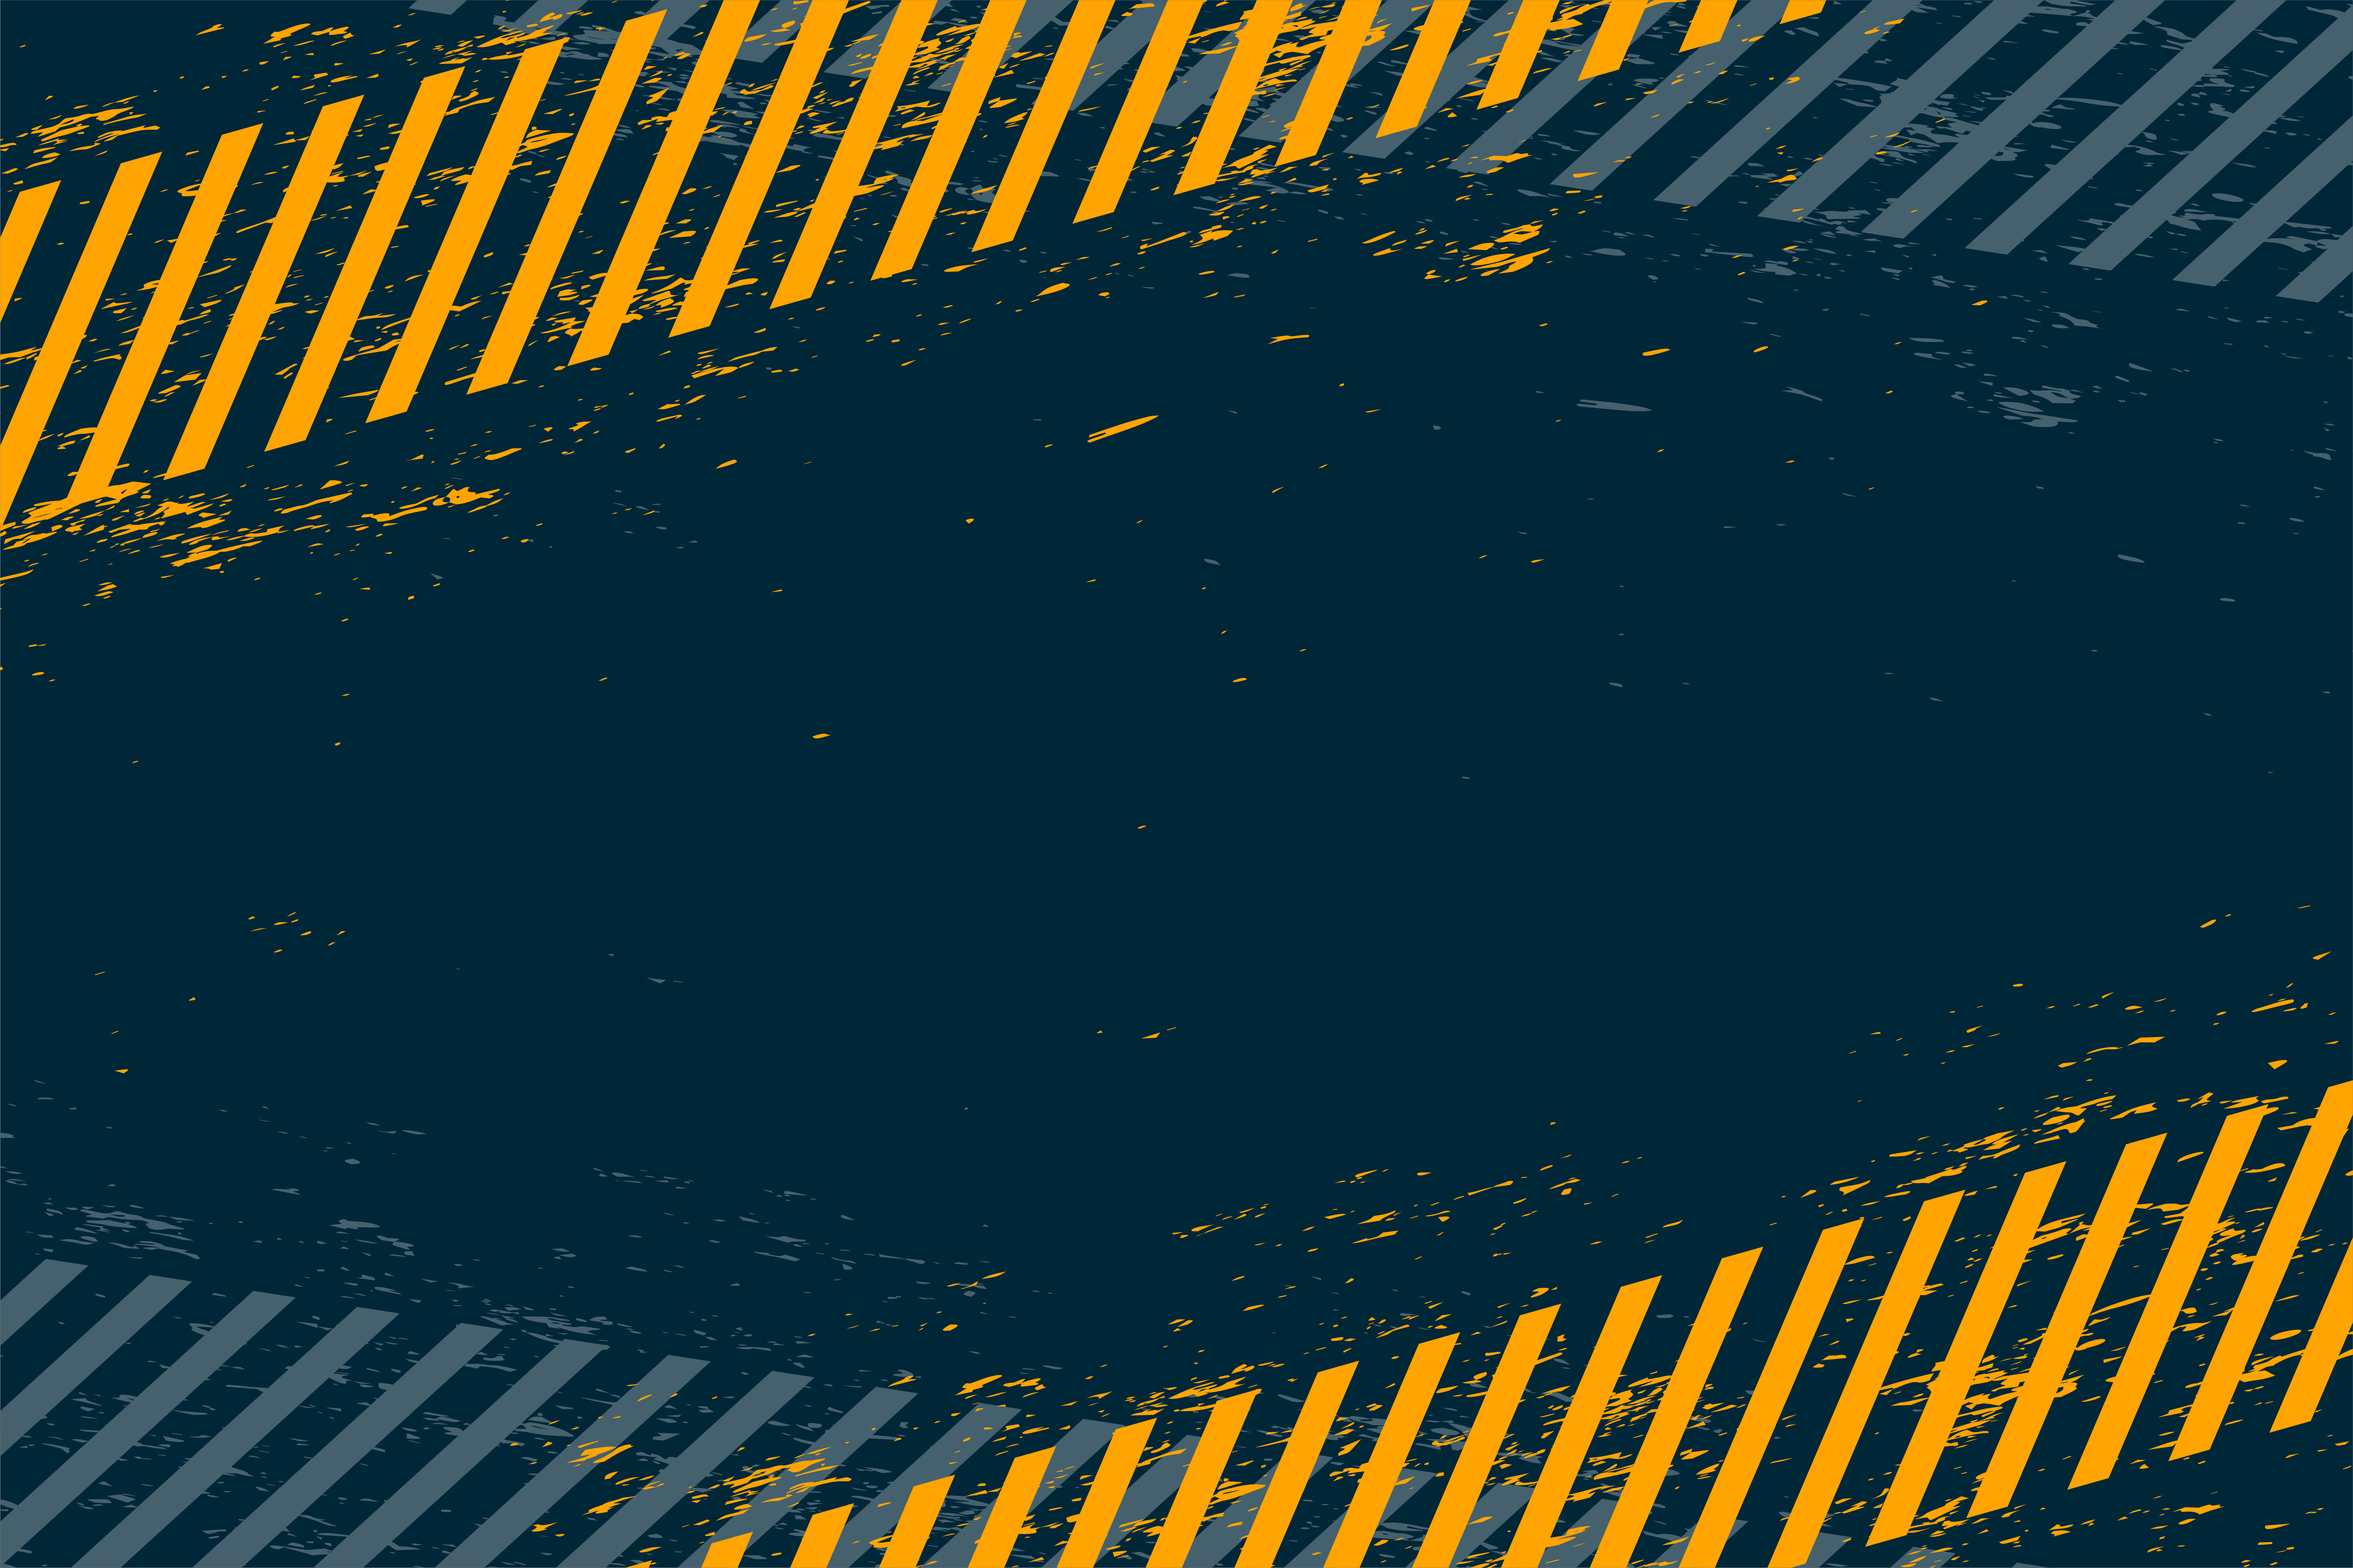
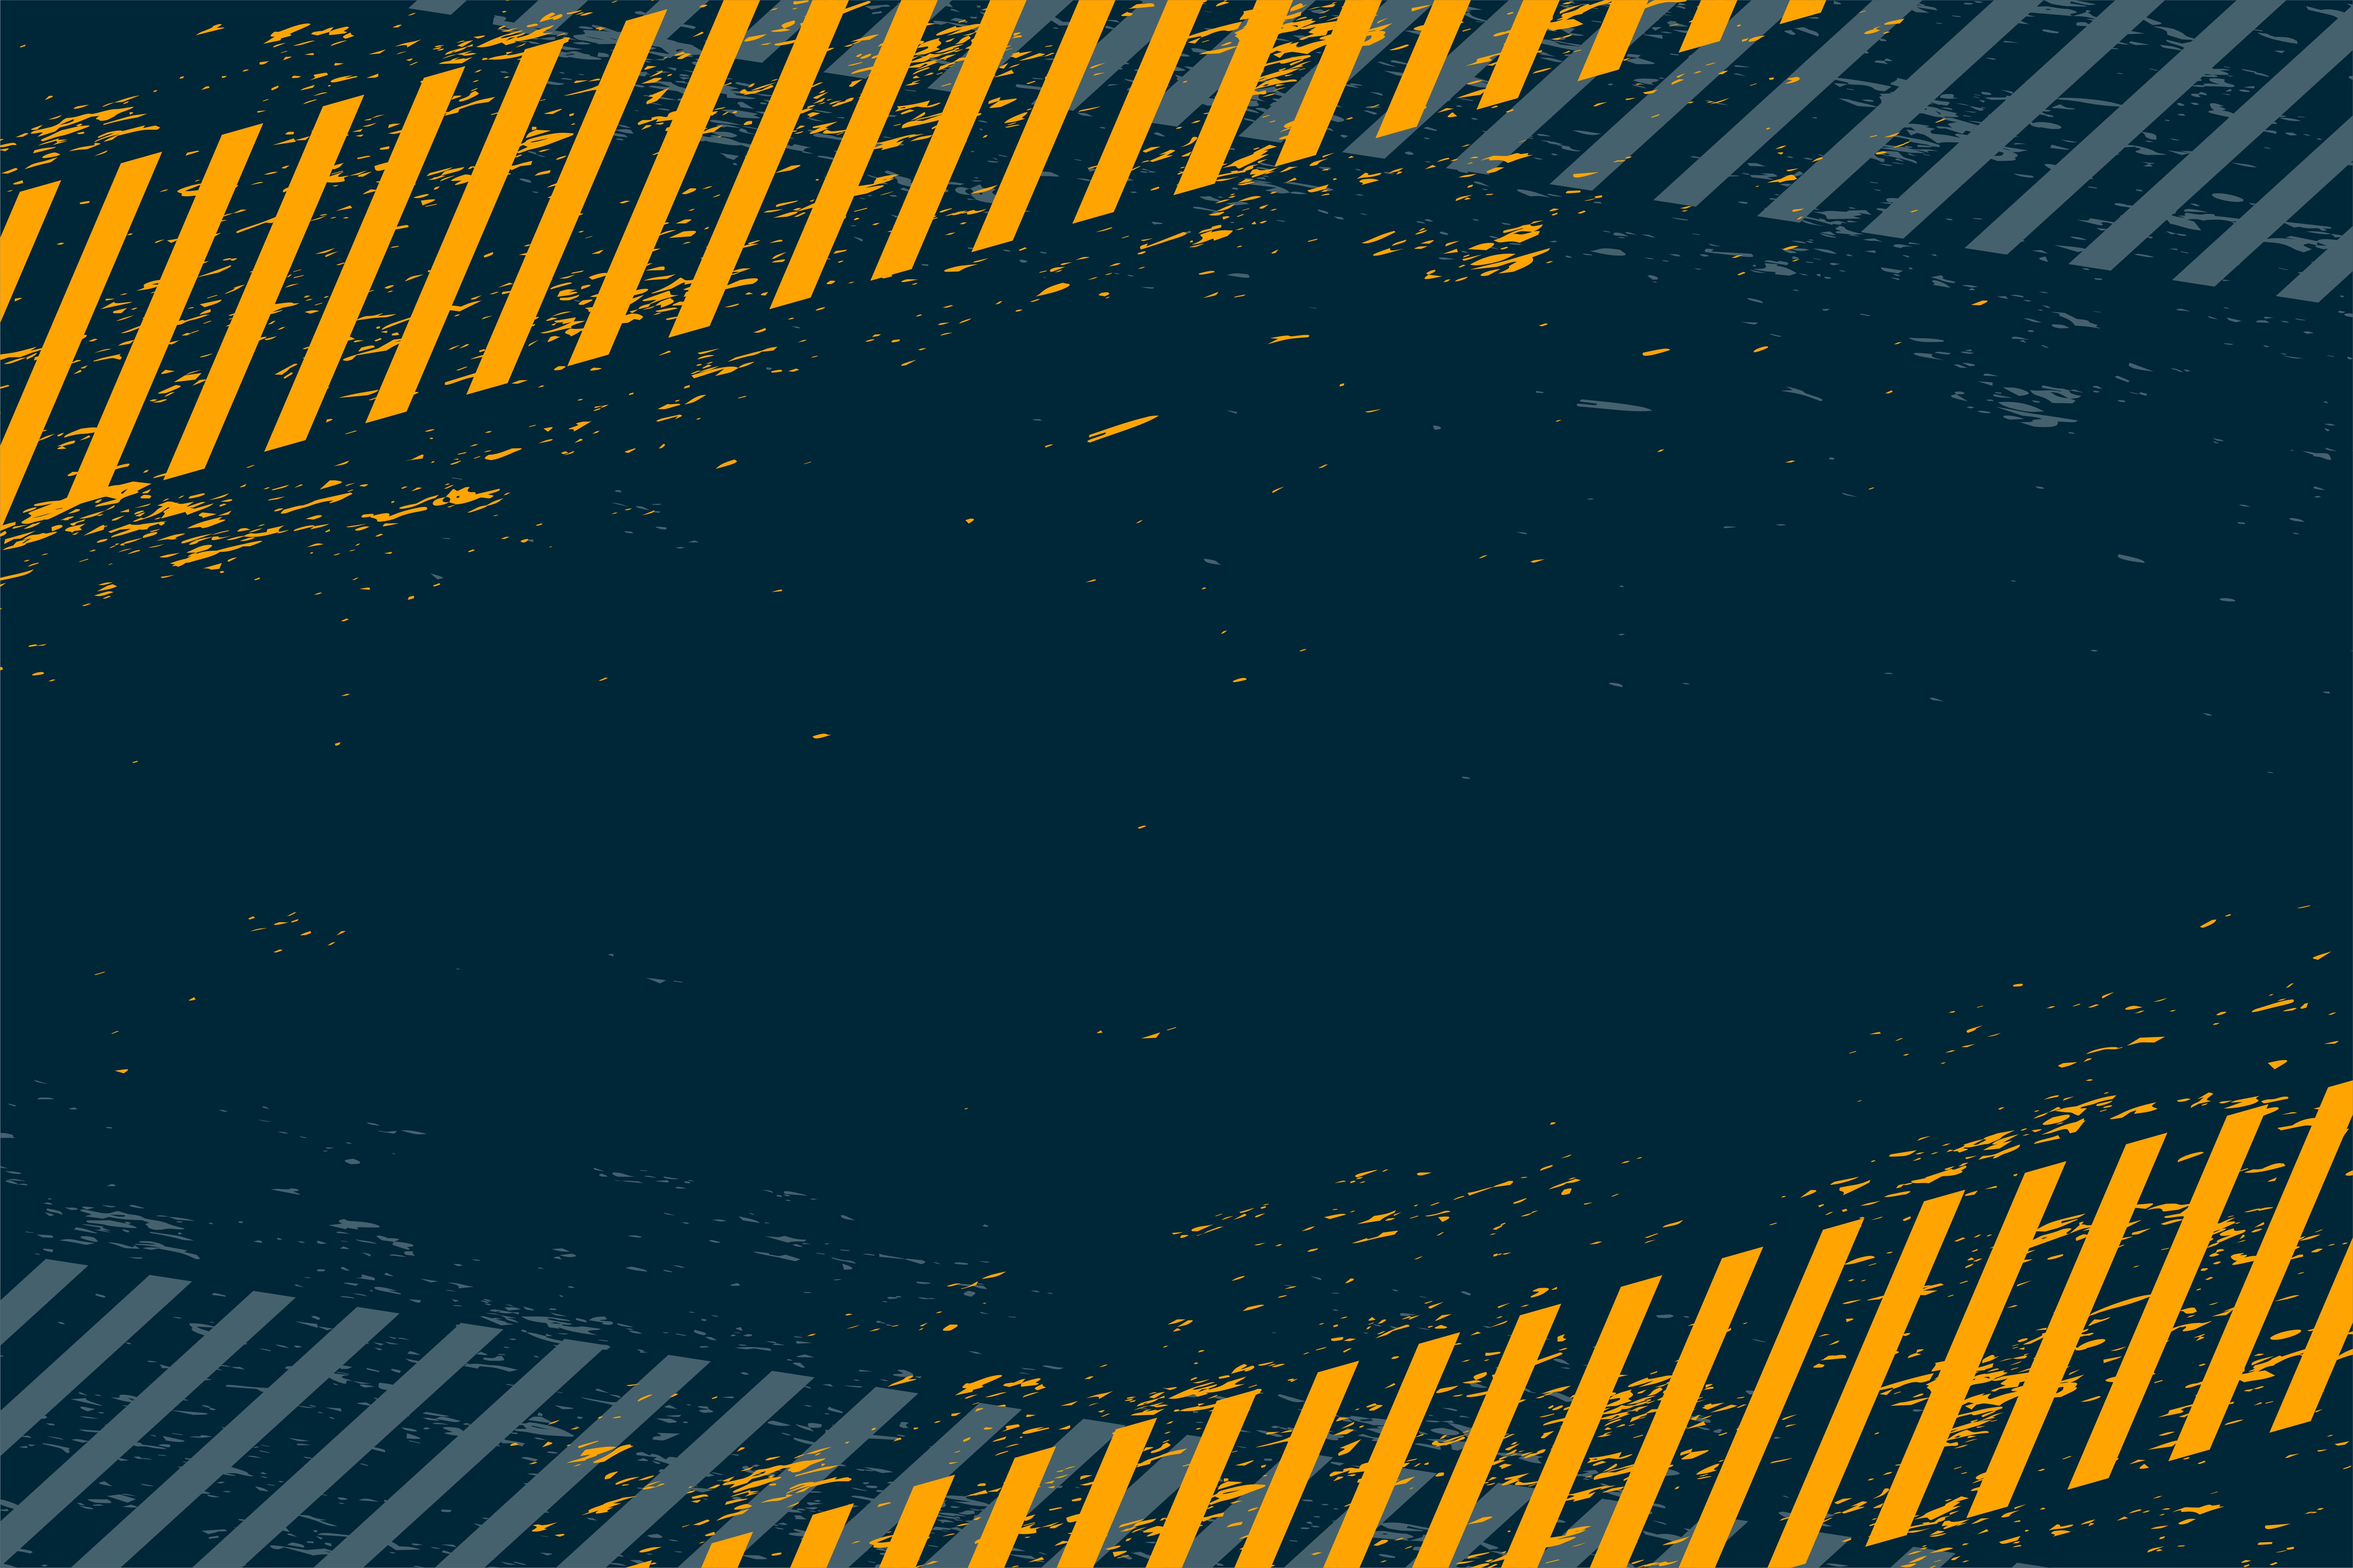
g

diff --git a/resources/views/frontend/00_approve/01_cssterpisah/footer1.blade.php b/resources/views/frontend/00_approve/01_cssterpisah/footer1.blade.php
@@ -1,5 +1,5 @@
 
-<section class="footer" style="background-image: url('/assets/00_dokmasjaki/03_datajakon/footercrane.png');">
+<section class="footer" style="background-image: url('/assets/00_dokmasjaki/03_datajakon/footercrane.jpg');">
 	<div class="footer-inner">
 		<div class="container">
 			<div class="row">
